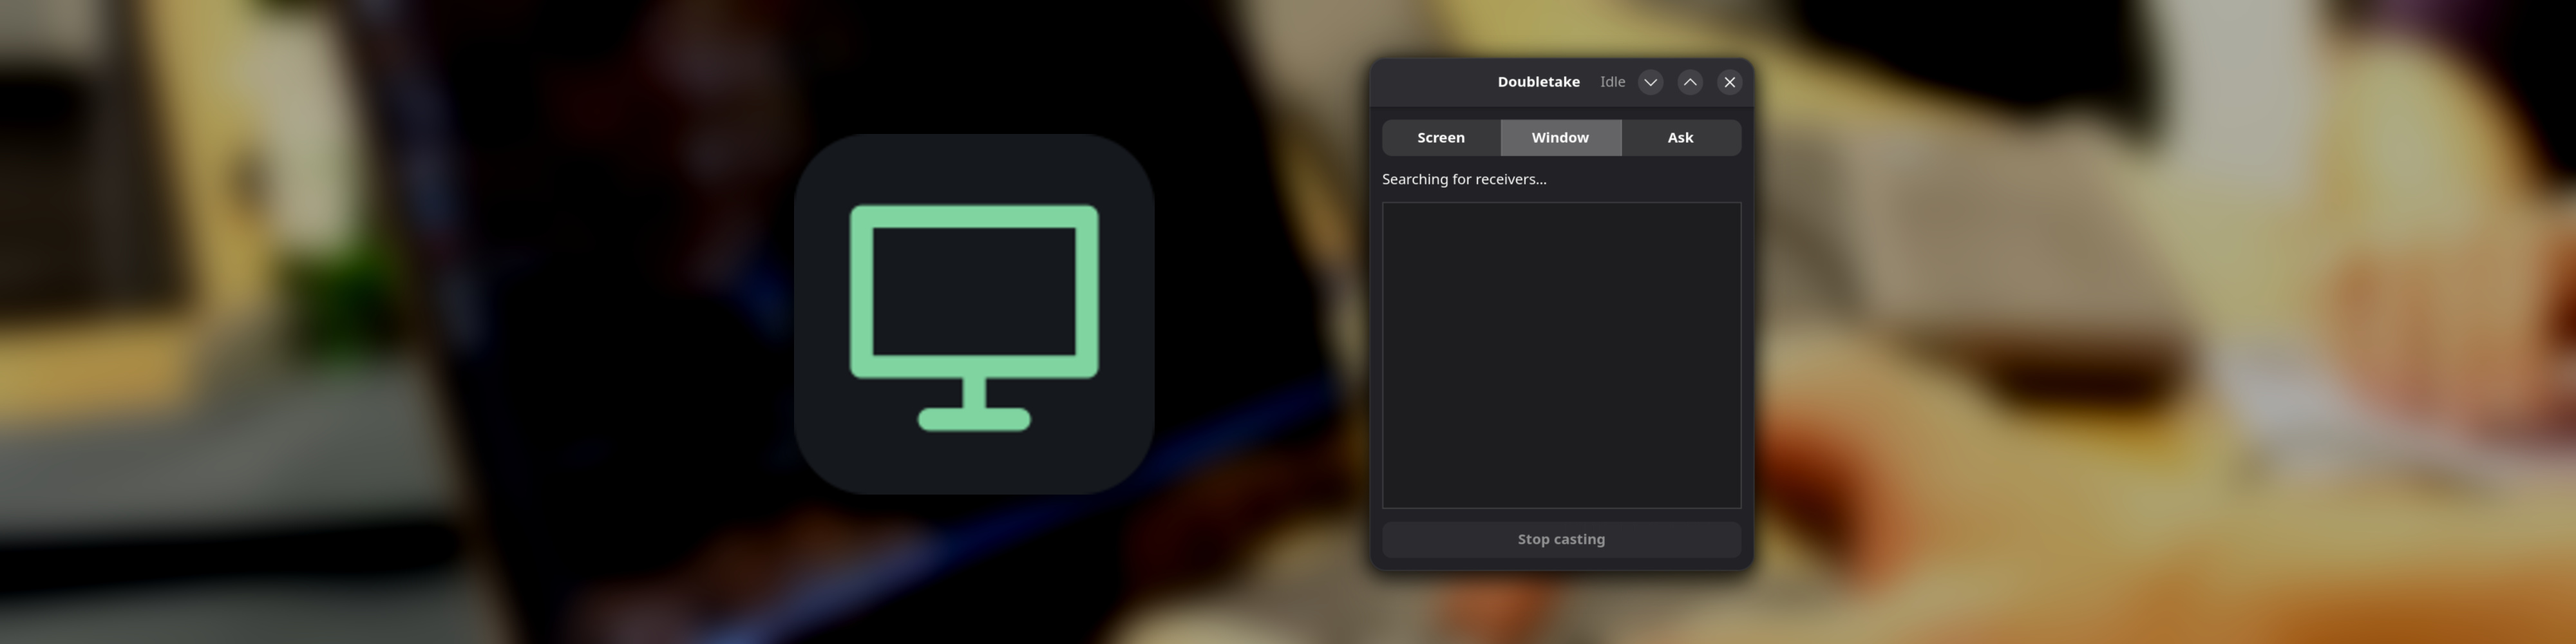
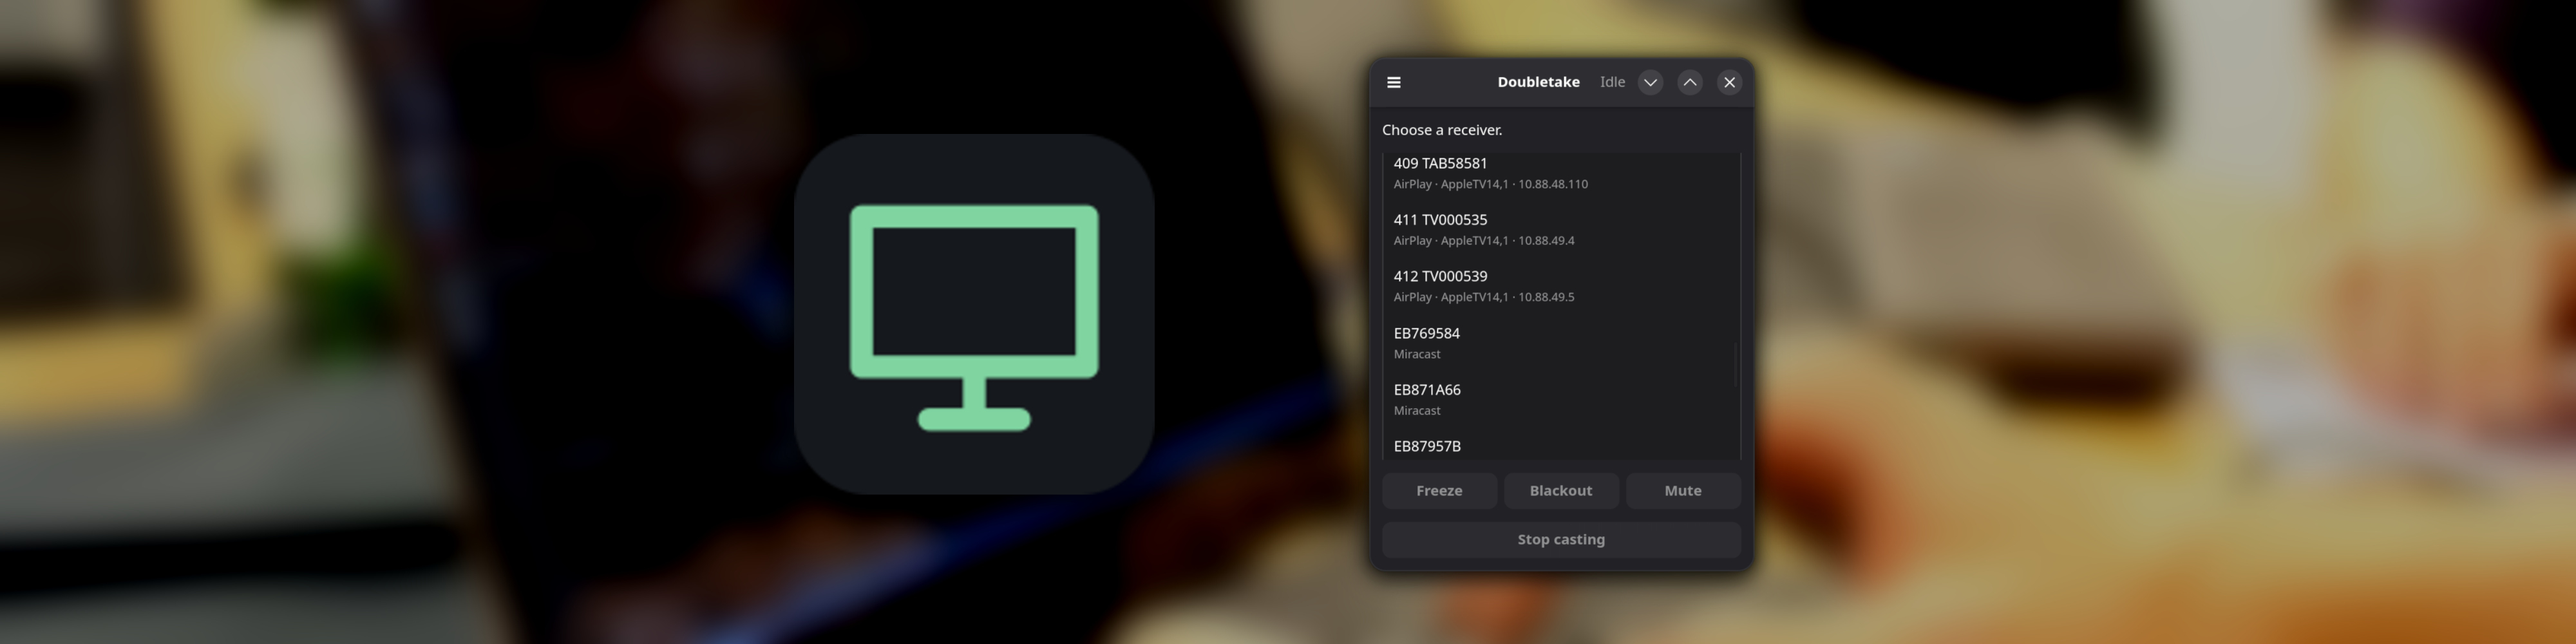
portfolio: update pdf-presenter-network and doubletake-ui
pdf-presenter-network: persistent erasable drawings, clicker support,
stop presenting, quit dialog, in-app updates, install/update/uninstall
commands. doubletake-ui: new feature list and images.

Claude-Session: https://claude.ai/code/session_01AhReTF4PT4cieiCpQeiRKJ

diff --git a/_coll_portfolio/pdf-presenter-network.md b/_coll_portfolio/pdf-presenter-network.md
@@ -25,12 +25,20 @@ This is a fork of [htlin222/pdf-presenter](https://github.com/htlin222/pdf-prese
 ### My contribution
 - **Network sync** through a WebSocket on the server, so every device on the LAN can follow. Also works on restricted school networks.
 - **Always-on server:** the root URL is an audience view with a waiting screen. The presenter picks a PDF from a directory listing or uploads one.
-- **Annotations:** pen with colours, eraser and laser pointer, shown live on every audience screen.
+- **Annotations:** pen with colours, eraser and laser pointer, shown live on every audience screen. Drawings survive a reload of the presenter and stay erasable.
 - **Zoom and pan**, synced to the audience, and clickable links inside the PDF.
 - **Timed slides:** Beamer `\transduration{seconds}` pages advance automatically.
 - **Per-slide timer** next to the overall timer.
-- **Linux desktop app:** a systemd service on port 80 (`http://<hostname>/`), an app-menu entry, and a one-line installer from GitHub releases:
+- **Clicker support:** Left/Right, Up/Down, Page Up/Down and Space all change slides.
+- **Stop presenting:** ends the talk with one button. Audience screens switch to the waiting screen and close; the presenter goes back to the PDF list for the next talk.
+- **Linux desktop app:** a systemd service on port 80 (`http://<hostname>/`), an app-menu entry, and a one-line installer from GitHub releases. Closing the app window asks whether to stop the service too; the next launch starts it again.
+- **Updates from the UI:** the presenter and the PDF list show an **Update** button on the presenter PC when a new release is out. One click installs it and restarts the server.
 
 ```sh
+# Install
 curl -fsSL https://github.com/ValentinHerrmann/pdf-presenter-network/releases/latest/download/install.sh | sh
+# Update from a terminal
+pdf-presenter-update
+# Uninstall
+curl -fsSL https://github.com/ValentinHerrmann/pdf-presenter-network/releases/latest/download/uninstall.sh | sh
 ```

diff --git a/_coll_portfolio/doubletake-ui.md b/_coll_portfolio/doubletake-ui.md
@@ -20,10 +20,12 @@ This is a fork of [omarroth/doubletake](https://github.com/omarroth/doubletake) 
 
 <img src="/doubletake-ui/screenshot.png" alt="Doubletake desktop app" class="align-right" style="width:260px; border-radius:10px;" />
 
-- **Desktop app** `doubletake-ui` (GTK 4): lists the AirPlay receivers and Miracast displays nearby, asks for the PIN, starts and stops mirroring with one click.
+- **Desktop app** `doubletake-ui` (GTK 4): lists the AirPlay receivers and Miracast displays nearby, asks for the PIN, starts and stops mirroring with one click. The list stays still while discovery runs, even on networks with many receivers.
+- **Your desktop's own sharing dialog** picks a screen or a window on every connection. While connecting, the app shows the receiver and can cancel a wrong choice.
 - **Miracast** (experimental, since v0.7.0): mirrors to Miracast TVs, projectors and dongles over Wi-Fi Direct, with sound, up to 1080p. No second app such as GNOME Network Displays needed.
-- **System tray** and **start on login**. Closing the window keeps the cast running.
-- **Capture source choice:** Screen, Window or Ask, in the app and as `-source any|monitor|window` on the command line.
+- **Freeze, Blackout and Mute** while casting, for AirPlay and Miracast: keep the current picture or show black on the projector while you prepare the next thing.
+- **Sound like an HDMI display:** while casting, a "Doubletake" output replaces the speakers and follows the system volume slider.
+- **System tray:** the window hides to the tray once casting starts, and the tray menu shows the receiver and the casting controls. **Quit** stops casting. Optional **start on login** and **keep screen awake while casting**.
 - **One-line install, update and uninstall** from the fork's releases (no root needed).
 
 <div style="clear:both;"></div>
